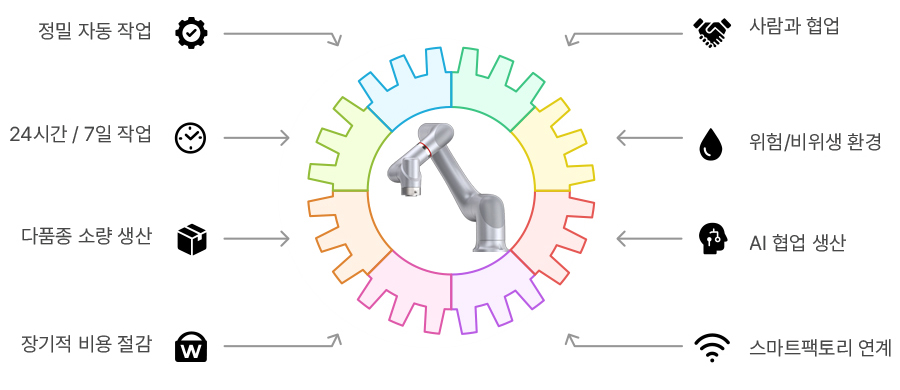
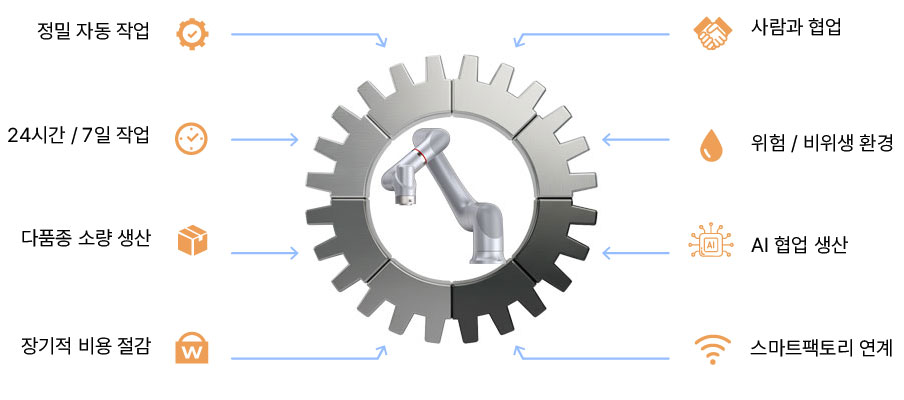
솔루션 - 로봇 자동화 수정 사항 : 헤딩 이미지, 중간 이미지(3,4),  자동화 공졍 기대효과 / 메인 - 솔루션 : 로봇 자동화 이미지 교체

diff --git a/src/pages/Solution/Automation/IntroSection.jsx b/src/pages/Solution/Automation/IntroSection.jsx
@@ -5,7 +5,7 @@ import ContenttBlock from "../components/ContenttBlock";
 
 import img2 from "../../../assets/images/solution/automation(2).svg";
 import img2_2 from "../../../assets/images/solution/automation(2-2).png";
-import img3 from "../../../assets/images/solution/automation(3).svg";
+import img3 from "../../../assets/images/solution/automation(3).jpg";
 import img4 from "../../../assets/images/solution/automation(4).jpg";
 import img5 from "../../../assets/images/solution/automation(5).svg";
 
@@ -42,7 +42,6 @@ function IntroSection() {
         size={1100}
         title={"로봇 자동화 프로세스"}
       >
-        <svg src={img3}></svg>
         <img src={img3} alt="로봇 자동화 프로세스" />
         <p className="cnt-desc">
           뎉타봇은 로봇, 비전, 컨베이어, AI 제어 등 첨단 기술 기반의 자동화 라인
@@ -141,11 +140,11 @@ const cnt06 = {
       poster: "/images/video_poster/solution-automation(2).jpg",
       effects: [
         {
-          text: "분당 80개 처리",
+          text: "분당 125개 처리",
           iconName: "icon_timer",
         },
         {
-          text: "로봇 1대당 인력 4명 절감 효과",
+          text: "로봇 1대당 인력 3명 절감 효과",
           iconName: "icon_labors",
         },
         {
@@ -165,7 +164,7 @@ const cnt06 = {
       poster: "/images/video_poster/solution-automation(3).jpg",
       effects: [
         {
-          text: "분당 85개 처리",
+          text: "분당 75개 처리",
           iconName: "icon_timer",
         },
         {
@@ -189,11 +188,11 @@ const cnt06 = {
       poster: "/images/video_poster/solution-automation(4).jpg",
       effects: [
         {
-          text: "분당 85개 처리",
+          text: "분당 12개 처리",
           iconName: "icon_timer",
         },
         {
-          text: "로봇 1대당 인력 3명 절감 효과",
+          text: "로봇 1대당 인력 2명 절감 효과",
           iconName: "icon_labors",
         },
         {
@@ -213,11 +212,11 @@ const cnt06 = {
       poster: "/images/video_poster/solution-automation(5).jpg",
       effects: [
         {
-          text: "분당 75개 처리",
+          text: "분당 60개 처리",
           iconName: "icon_timer",
         },
         {
-          text: "로봇 1대당 인력 2명 절감 효과",
+          text: "로봇 1대당 인력 1.5명 절감 효과",
           iconName: "icon_labors",
         },
         {
